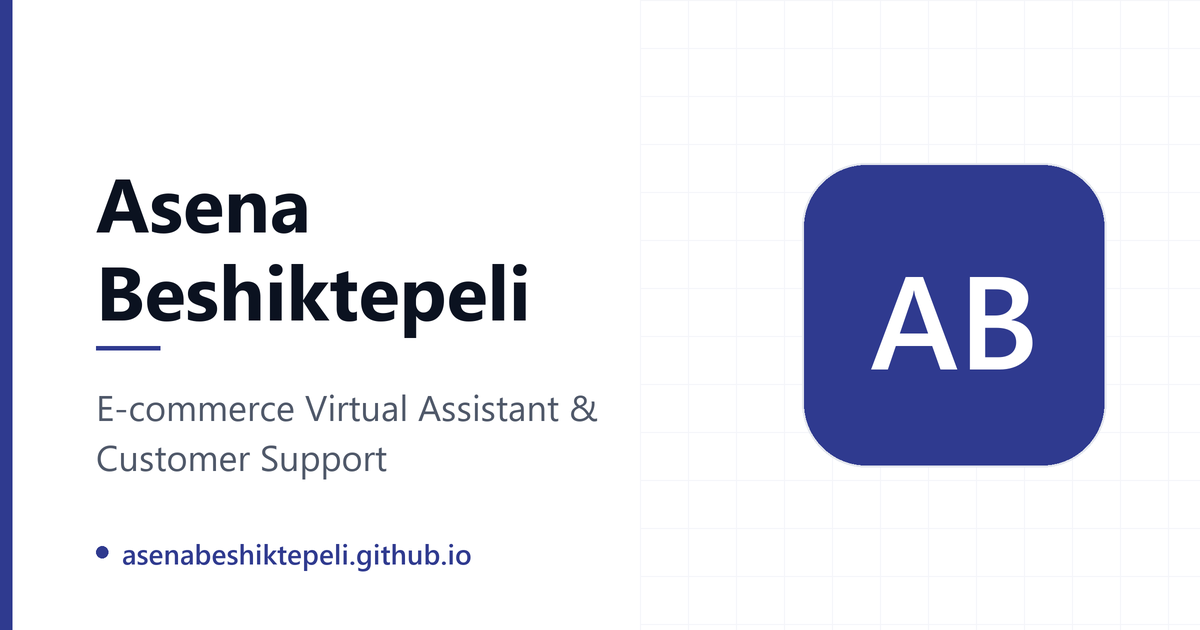
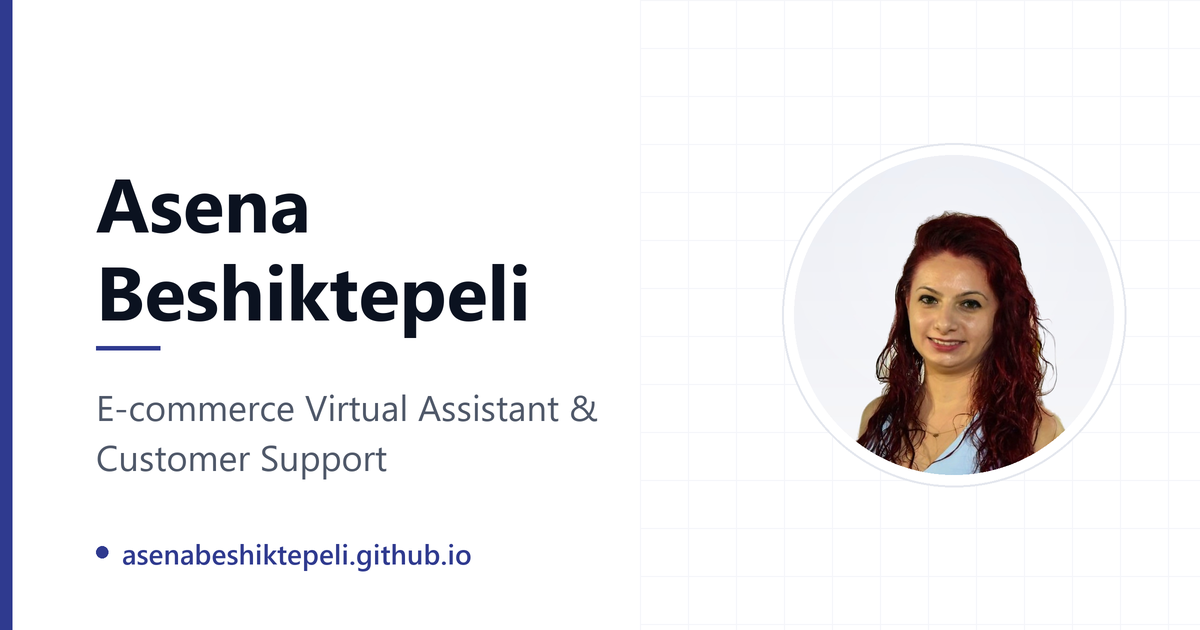
Fix mobile portfolio cards, sharper Jira thumbnail, photo in link preview, WhatsApp in experience

Changed region(s): [[0.6475, 0.2413, 0.925, 0.754]]

diff --git a/docs/index.html b/docs/index.html
@@ -528,7 +528,7 @@ Python workflow with a human approval step          </h3>
 <p class="job-summary">Building materials and interior decoration supplies.</p>            </div>
           </div>
           <ul class="duties">
-<li>Customer communication by email, phone and face to face</li><li>Quotes and proformas</li><li>Order tracking and shipping coordination</li><li>Complaints and returns</li><li>Invoice and payment follow-up in <span translate="no">Logo Tiger 3</span></li><li>Tables and reports in Excel and Google Sheets</li><li>Entry-level <span translate="no">Logo</span> training for new colleagues</li>          </ul>
+<li>Customer communication by email, WhatsApp, phone and face to face</li><li>Quotes and proformas</li><li>Order tracking and shipping coordination</li><li>Complaints and returns</li><li>Invoice and payment follow-up in <span translate="no">Logo Tiger 3</span></li><li>Tables and reports in Excel and Google Sheets</li><li>Entry-level <span translate="no">Logo</span> training for new colleagues</li>          </ul>
         </article>
       </div>
     </div>

diff --git a/docs/static/css/style.css b/docs/static/css/style.css
@@ -1693,6 +1693,7 @@ html:has(.lightbox[open]) {
 
   .project:first-child .project-media,
   .project:last-child:nth-child(even) .project-media {
+    min-height: 220px;
     border-right: 0;
     border-bottom: 1px solid var(--border);
     border-radius: calc(var(--radius) - 1px) calc(var(--radius) - 1px) 0 0;

diff --git a/static/css/style.css b/static/css/style.css
@@ -1693,6 +1693,7 @@ html:has(.lightbox[open]) {
 
   .project:first-child .project-media,
   .project:last-child:nth-child(even) .project-media {
+    min-height: 220px;
     border-right: 0;
     border-bottom: 1px solid var(--border);
     border-radius: calc(var(--radius) - 1px) calc(var(--radius) - 1px) 0 0;

diff --git a/tools/make_og.py b/tools/make_og.py
@@ -4,9 +4,15 @@ Writes static/og/og-image.png (1200x630), static/favicon.png (32x32)
 and static/apple-touch-icon.png (180x180). Run before build.py:
 
     .\\.venv\\Scripts\\python.exe tools\\make_og.py
+    .\\.venv\\Scripts\\python.exe tools\\make_og.py --monogram   (AB monogram instead of the photo)
+
+The preview image uses hero.photo from content.yaml as a round portrait;
+if that file is missing (or --monogram is given) it falls back to the monogram.
+The icons always use the monogram.
 """
 
 import re
+import sys
 from pathlib import Path
 
 import yaml
@@ -72,7 +78,28 @@ def monogram(draw, box, letters, radius, size):
     draw.text((cx, cy), letters, font=face, fill=WHITE, anchor="mm")
 
 
-def og_image(name, title, url, path):
+def portrait(image, draw, center, diameter, photo_path):
+    """Paste the photo as a circle inside a white ring with a thin border."""
+    s = SCALE
+    cx, cy = center
+    ring = 10 * s
+    outer = diameter // 2 + ring
+    draw.ellipse([cx - outer - 2 * s, cy - outer - 2 * s, cx + outer + 2 * s, cy + outer + 2 * s], fill=BORDER)
+    draw.ellipse([cx - outer, cy - outer, cx + outer, cy + outer], fill=WHITE)
+
+    with Image.open(photo_path) as source:
+        photo = source.convert("RGB")
+    side = min(photo.size)
+    left = (photo.width - side) // 2
+    top = (photo.height - side) // 2
+    photo = photo.crop((left, top, left + side, top + side)).resize((diameter, diameter), Image.Resampling.LANCZOS)
+
+    mask = Image.new("L", (diameter, diameter), 0)
+    ImageDraw.Draw(mask).ellipse([0, 0, diameter - 1, diameter - 1], fill=255)
+    image.paste(photo, (cx - diameter // 2, cy - diameter // 2), mask)
+
+
+def og_image(name, title, url, path, photo_path=None):
     s = SCALE
     width, height = 1200 * s, 630 * s
     image = Image.new("RGB", (width, height), WHITE)
@@ -109,13 +136,16 @@ def og_image(name, title, url, path):
         draw.ellipse([left, uy + 12 * s, left + 12 * s, uy + 24 * s], fill=ACCENT)
         draw.text((left + 26 * s, uy), url, font=url_face, fill=ACCENT)
 
-    # Monogram card on the right
+    # Round photo (or monogram card) on the right
     size = 300 * s
     x0 = width - 96 * s - size
     y0 = (height - size) // 2
-    draw.rounded_rectangle([x0 - 2 * s, y0 - 2 * s, x0 + size + 2 * s, y0 + size + 2 * s],
-                           radius=64 * s, fill=BORDER)
-    monogram(draw, [x0, y0, x0 + size, y0 + size], initials(name), 62 * s, 132 * s)
+    if photo_path:
+        portrait(image, draw, (x0 + size // 2, y0 + size // 2), 320 * s, photo_path)
+    else:
+        draw.rounded_rectangle([x0 - 2 * s, y0 - 2 * s, x0 + size + 2 * s, y0 + size + 2 * s],
+                               radius=64 * s, fill=BORDER)
+        monogram(draw, [x0, y0, x0 + size, y0 + size], initials(name), 62 * s, 132 * s)
 
     image = image.resize((1200, 630), Image.Resampling.LANCZOS)
     path.parent.mkdir(parents=True, exist_ok=True)
@@ -143,7 +173,14 @@ def main():
     url = display_url(meta.get("url"))
 
     og_path = ROOT / (meta.get("og_image") or "static/og/og-image.png")
-    og_image(name, title, url, og_path)
+    photo_path = None
+    if "--monogram" not in sys.argv[1:] and hero.get("photo"):
+        candidate = ROOT / hero["photo"]
+        if candidate.is_file():
+            photo_path = candidate
+        else:
+            print(f"Photo not found ({hero['photo']}), using the monogram")
+    og_image(name, title, url, og_path, photo_path)
     icon(name, 32, STATIC / "favicon.png")
     # iOS rounds the corners itself, so the touch icon stays square.
     icon(name, 180, STATIC / "apple-touch-icon.png", rounded=False)
